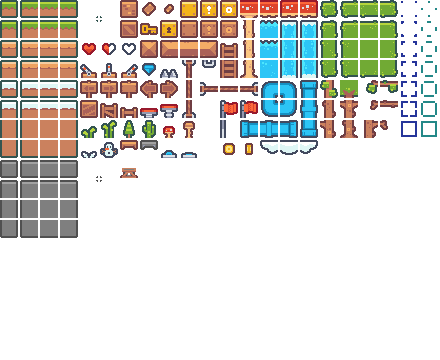
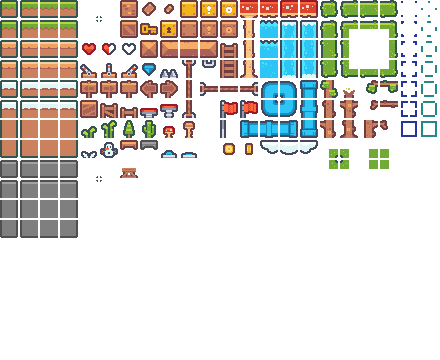
update

Changed region(s): [[0.7682, 0.0611, 0.8864, 0.275], [0.8273, 0.3972, 0.8864, 0.4889], [0.7386, 0.3972, 0.7977, 0.4889]]

diff --git a/core/src/main/java/pama1234/gdx/game/state/state0001/game/region/block/block0001/TreeLeaf.java b/core/src/main/java/pama1234/gdx/game/state/state0001/game/region/block/block0001/TreeLeaf.java
@@ -10,7 +10,7 @@ import pama1234.gdx.game.state.state0001.game.world.World0001;
 
 public class TreeLeaf extends MetaBlock{
   public TreeLeaf(MetaBlockCenter0001 pc,int id) {
-    super(pc,"tree-leaf",id,21,3,(in,type)-> {//change to log
+    super(pc,"tree-leaf",id,25,3,(in,type)-> {//change to log
       in.light.set(16);
     },(in,type)-> {//change from log
     });
@@ -51,7 +51,23 @@ public class TreeLeaf extends MetaBlock{
     tiles[2]=tsrc[tx+2][ty+3];
     tiles[10]=tsrc[tx+3][ty+3];
     //-----------------------------------------------------
-    tiles[20]=tsrc[tx+1][ty+4];
+    tx=16;
+    ty=7;
+    //-----------------------------------------------------
+    tiles[16]=tsrc[tx][ty];
+    tiles[17]=tsrc[tx+1][ty];
+    tiles[18]=tsrc[tx][ty+1];
+    tiles[19]=tsrc[tx+1][ty+1];
+    //-----------------------------------------------------
+    tx=18;
+    ty=7;
+    //-----------------------------------------------------
+    tiles[20]=tsrc[tx][ty];
+    tiles[21]=tsrc[tx+1][ty];
+    tiles[22]=tsrc[tx][ty+1];
+    tiles[23]=tsrc[tx+1][ty+1];
+    //-----------------------------------------------------
+    tiles[24]=tsrc[tx+1][ty+4];
   }
   public void initTreeLogLambda() {
     // updater=lightUpdater;
@@ -84,15 +100,44 @@ public class TreeLeaf extends MetaBlock{
         getLighting(in.light.b()));
       int tp_0=in.displayType[0];
       p.innerImage(in.type.tiles[tp_0],x,y,world.blockWidth+0.01f,world.blockHeight+0.01f);
-      // int tp_1=in.displayType[1];
-      // if(tp_1!=0) {
-      //   if((tp_0&2)+(tp_0&8)==0&&(tp_1&4)!=0) p.innerImage(in.type.tiles[16],x,y,world.blockWidth+0.01f,world.blockHeight+0.01f);
-      //   if((tp_0&2)+(tp_0&4)==0&&(tp_1&2)!=0) p.innerImage(in.type.tiles[17],x,y,world.blockWidth+0.01f,world.blockHeight+0.01f);
-      //   if((tp_0&1)+(tp_0&8)==0&&(tp_1&8)!=0) p.innerImage(in.type.tiles[18],x,y,world.blockWidth+0.01f,world.blockHeight+0.01f);
-      //   if((tp_0&1)+(tp_0&4)==0&&(tp_1&1)!=0) p.innerImage(in.type.tiles[19],x,y,world.blockWidth+0.01f,world.blockHeight+0.01f);
-      // }
+      int tp_1=in.displayType[1];
+      if(tp_1!=0) {
+        TextureRegion tr;
+        // if((tp_0&2)+(tp_0&8)==0&&(tp_1&4)!=0) tr=in.type.tiles[16];
+        // else tr=in.type.tiles[20];
+        // p.innerImage(tr,x,y,world.blockWidth+0.01f,world.blockHeight+0.01f);
+        // if((tp_0&2)+(tp_0&4)==0&&(tp_1&2)!=0) tr=in.type.tiles[17];
+        // else tr=in.type.tiles[21];
+        // p.innerImage(tr,x,y,world.blockWidth+0.01f,world.blockHeight+0.01f);
+        // if((tp_0&1)+(tp_0&8)==0&&(tp_1&8)!=0) tr=in.type.tiles[18];
+        // else tr=in.type.tiles[22];
+        // p.innerImage(tr,x,y,world.blockWidth+0.01f,world.blockHeight+0.01f);
+        // if((tp_0&1)+(tp_0&4)==0&&(tp_1&1)!=0) tr=in.type.tiles[19];
+        // else tr=in.type.tiles[23];
+        // p.innerImage(tr,x,y,world.blockWidth+0.01f,world.blockHeight+0.01f);
+        if((tp_0&2)+(tp_0&8)==0) {
+          if((tp_1&4)!=0) tr=in.type.tiles[16];
+          else tr=in.type.tiles[20];
+          p.innerImage(tr,x,y,world.blockWidth+0.01f,world.blockHeight+0.01f);
+        }
+        if((tp_0&2)+(tp_0&4)==0) {
+          if((tp_1&2)!=0) tr=in.type.tiles[17];
+          else tr=in.type.tiles[21];
+          p.innerImage(tr,x,y,world.blockWidth+0.01f,world.blockHeight+0.01f);
+        }
+        if((tp_0&1)+(tp_0&8)==0) {
+          if((tp_1&8)!=0) tr=in.type.tiles[18];
+          else tr=in.type.tiles[22];
+          p.innerImage(tr,x,y,world.blockWidth+0.01f,world.blockHeight+0.01f);
+        }
+        if((tp_0&1)+(tp_0&4)==0) {
+          if((tp_1&1)!=0) tr=in.type.tiles[19];
+          else tr=in.type.tiles[23];
+          p.innerImage(tr,x,y,world.blockWidth+0.01f,world.blockHeight+0.01f);
+        }
+      }
       int tp_2=in.displayType[2];
-      if(tp_2!=0) p.innerImage(in.type.tiles[20],x,y,world.blockWidth+0.01f,world.blockHeight+0.01f);
+      if(tp_2!=0) p.innerImage(in.type.tiles[24],x,y,world.blockWidth+0.01f,world.blockHeight+0.01f);
     };
   }
   public static boolean isTreeLeaf(Block in,TreeLeaf type) {

diff --git a/core/src/main/java/pama1234/gdx/game/state/state0001/game/region/block/block0001/Stone.java b/core/src/main/java/pama1234/gdx/game/state/state0001/game/region/block/block0001/Stone.java
@@ -26,26 +26,27 @@ public class Stone extends MetaBlock{
   public void init() {
     // if(tiles[0]!=null) return;
     TextureRegion[][] tsrc=ImageAsset.tiles;
+    int tx=0,ty=8;
     //-----------------------------------------------------
-    tiles[15]=tsrc[0][8];
-    tiles[7]=tsrc[1][8];
-    tiles[3]=tsrc[2][8];
-    tiles[11]=tsrc[3][8];
+    tiles[15]=tsrc[tx][ty];
+    tiles[7]=tsrc[tx+1][ty];
+    tiles[3]=tsrc[tx+2][ty];
+    tiles[11]=tsrc[tx+3][ty];
     //-----------------------------------------------------
-    tiles[13]=tsrc[0][9];
-    tiles[5]=tsrc[1][9];
-    tiles[1]=tsrc[2][9];
-    tiles[9]=tsrc[3][9];
+    tiles[13]=tsrc[tx][ty+1];
+    tiles[5]=tsrc[tx+1][ty+1];
+    tiles[1]=tsrc[tx+2][ty+1];
+    tiles[9]=tsrc[tx+3][ty+1];
     //-----------------------------------------------------
-    tiles[12]=tsrc[0][10];
-    tiles[4]=tsrc[1][10];
-    tiles[0]=tsrc[2][10];
-    tiles[8]=tsrc[3][10];
+    tiles[12]=tsrc[tx][ty+2];
+    tiles[4]=tsrc[tx+1][ty+2];
+    tiles[0]=tsrc[tx+2][ty+2];
+    tiles[8]=tsrc[tx+3][ty+2];
     //-----------------------------------------------------
-    tiles[14]=tsrc[0][11];
-    tiles[6]=tsrc[1][11];
-    tiles[2]=tsrc[2][11];
-    tiles[10]=tsrc[3][11];
+    tiles[14]=tsrc[tx][ty+3];
+    tiles[6]=tsrc[tx+1][ty+3];
+    tiles[2]=tsrc[tx+2][ty+3];
+    tiles[10]=tsrc[tx+3][ty+3];
     //----------------------------------------------------- //TODO
     tiles[16]=tsrc[4][8];
     tiles[17]=tsrc[5][8];

diff --git a/core/src/main/java/pama1234/gdx/game/ui/generator/ButtonGenerator.java b/core/src/main/java/pama1234/gdx/game/ui/generator/ButtonGenerator.java
@@ -71,9 +71,12 @@ public class ButtonGenerator{
         else self.text="显示图形调试信息：否";
       },"显示图形调试信息：否",()->18,()->0,()->60),
       new TextButtonCam<T>(p,true,()->true,self-> {},self-> {},self-> {
+        //TODO
+      },"重新加载图片素材（未实现）",()->18,()->0,()->80),
+      new TextButtonCam<T>(p,true,()->true,self-> {},self-> {},self-> {
         System.gc();
         Runtime.getRuntime().runFinalization();
-      },"清理内存垃圾",()->18,()->0,()->80),
+      },"清理内存垃圾",()->18,()->0,()->100),
     };
   }
   public static <T extends Screen0011> Button<?>[] genButtons_0005(T p) {

diff --git a/plot.md b/plot.md
@@ -19,3 +19,13 @@
 此列表中的Boss的战斗或者交互场景都会使用无版权古典音乐作为BGM
 
 玩家可以通过打败这些Boss来获取新的能力，以及让世界产生新的物品和敌对生物
+
+1. 阿斯塔罗斯，第29位，放在第一个Boss位置，作为向导，会在玩家遭遇他之后说一些游戏的基础设定，玩家通过他的挑战后，获得箱子和背包的整理能力，箱子内物品自动放置拾取能力，按照脚本自动归纳，自动合成，的能力
+2. 没想好
+3. 没想好
+4. 没想好
+5. 没想好
+6. 但他林，第71位，玩家通过他的挑战后，获得多点感知能力（通过将眼球或耳朵绑在武器或其他类型的可移动实体上，玩家可以看的更远，获得更多的数据），无视亮度观察方块的能力，修改生物和NCP的数据（比如行动目标地点，敌对对象），创建幻象的能力
+7. 没想好
+8. 贝雷特，第13位，玩家通过他的挑战后，获得挑战第九个Boss的资格，以及某些神级武器
+9. 没想好，具备把玩家的部件抽出于角色的能力，玩家需要在玩家角色的灵魂形态，也就是一个光电的形态下，从意识，知识，智慧这几项要素击败这个Boss
